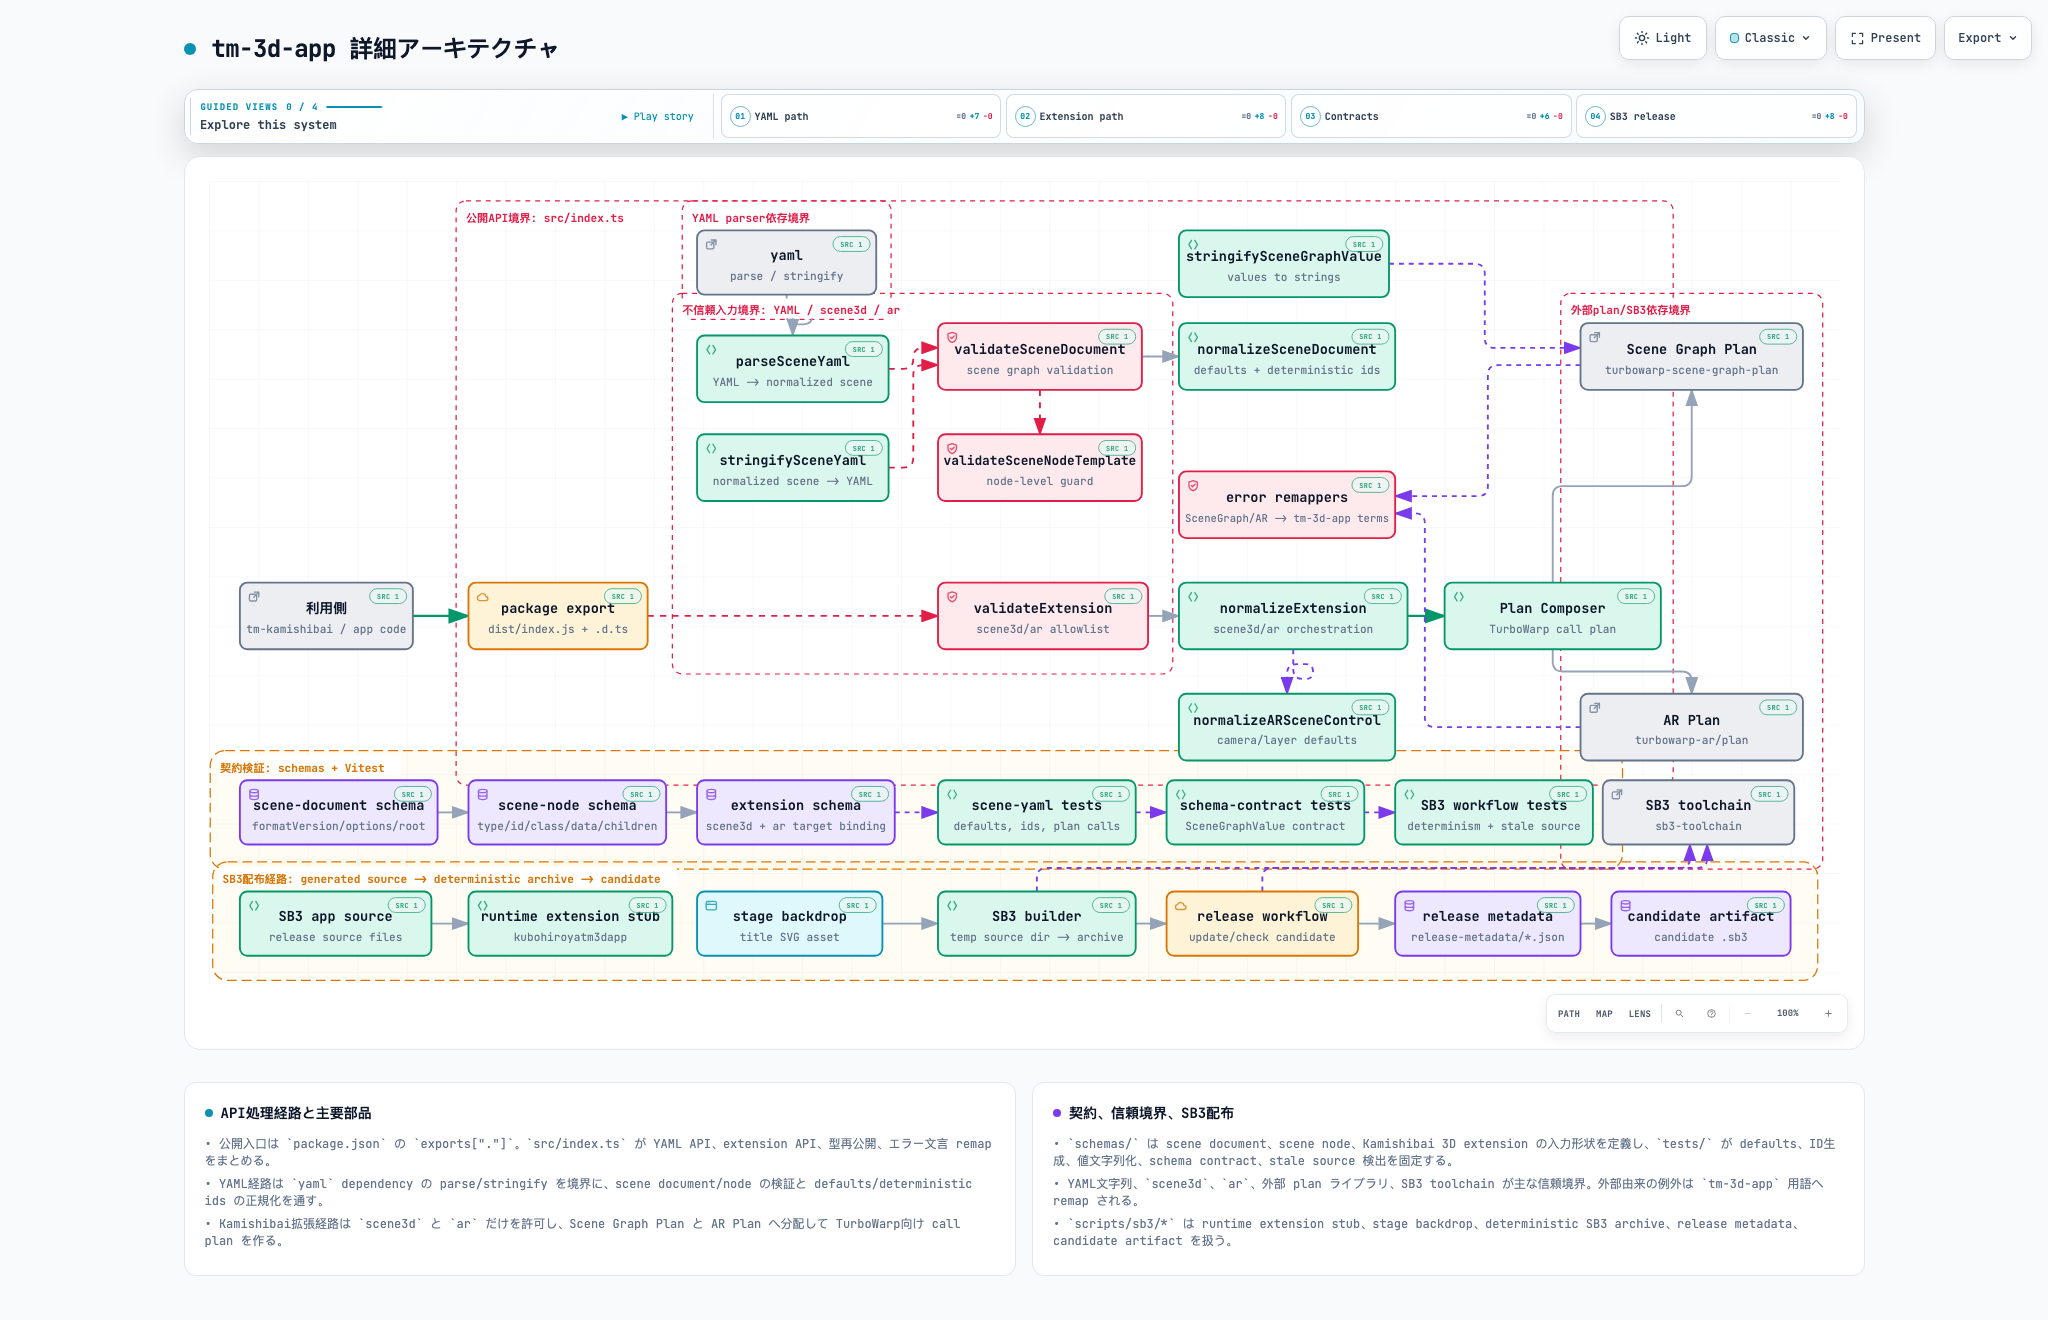
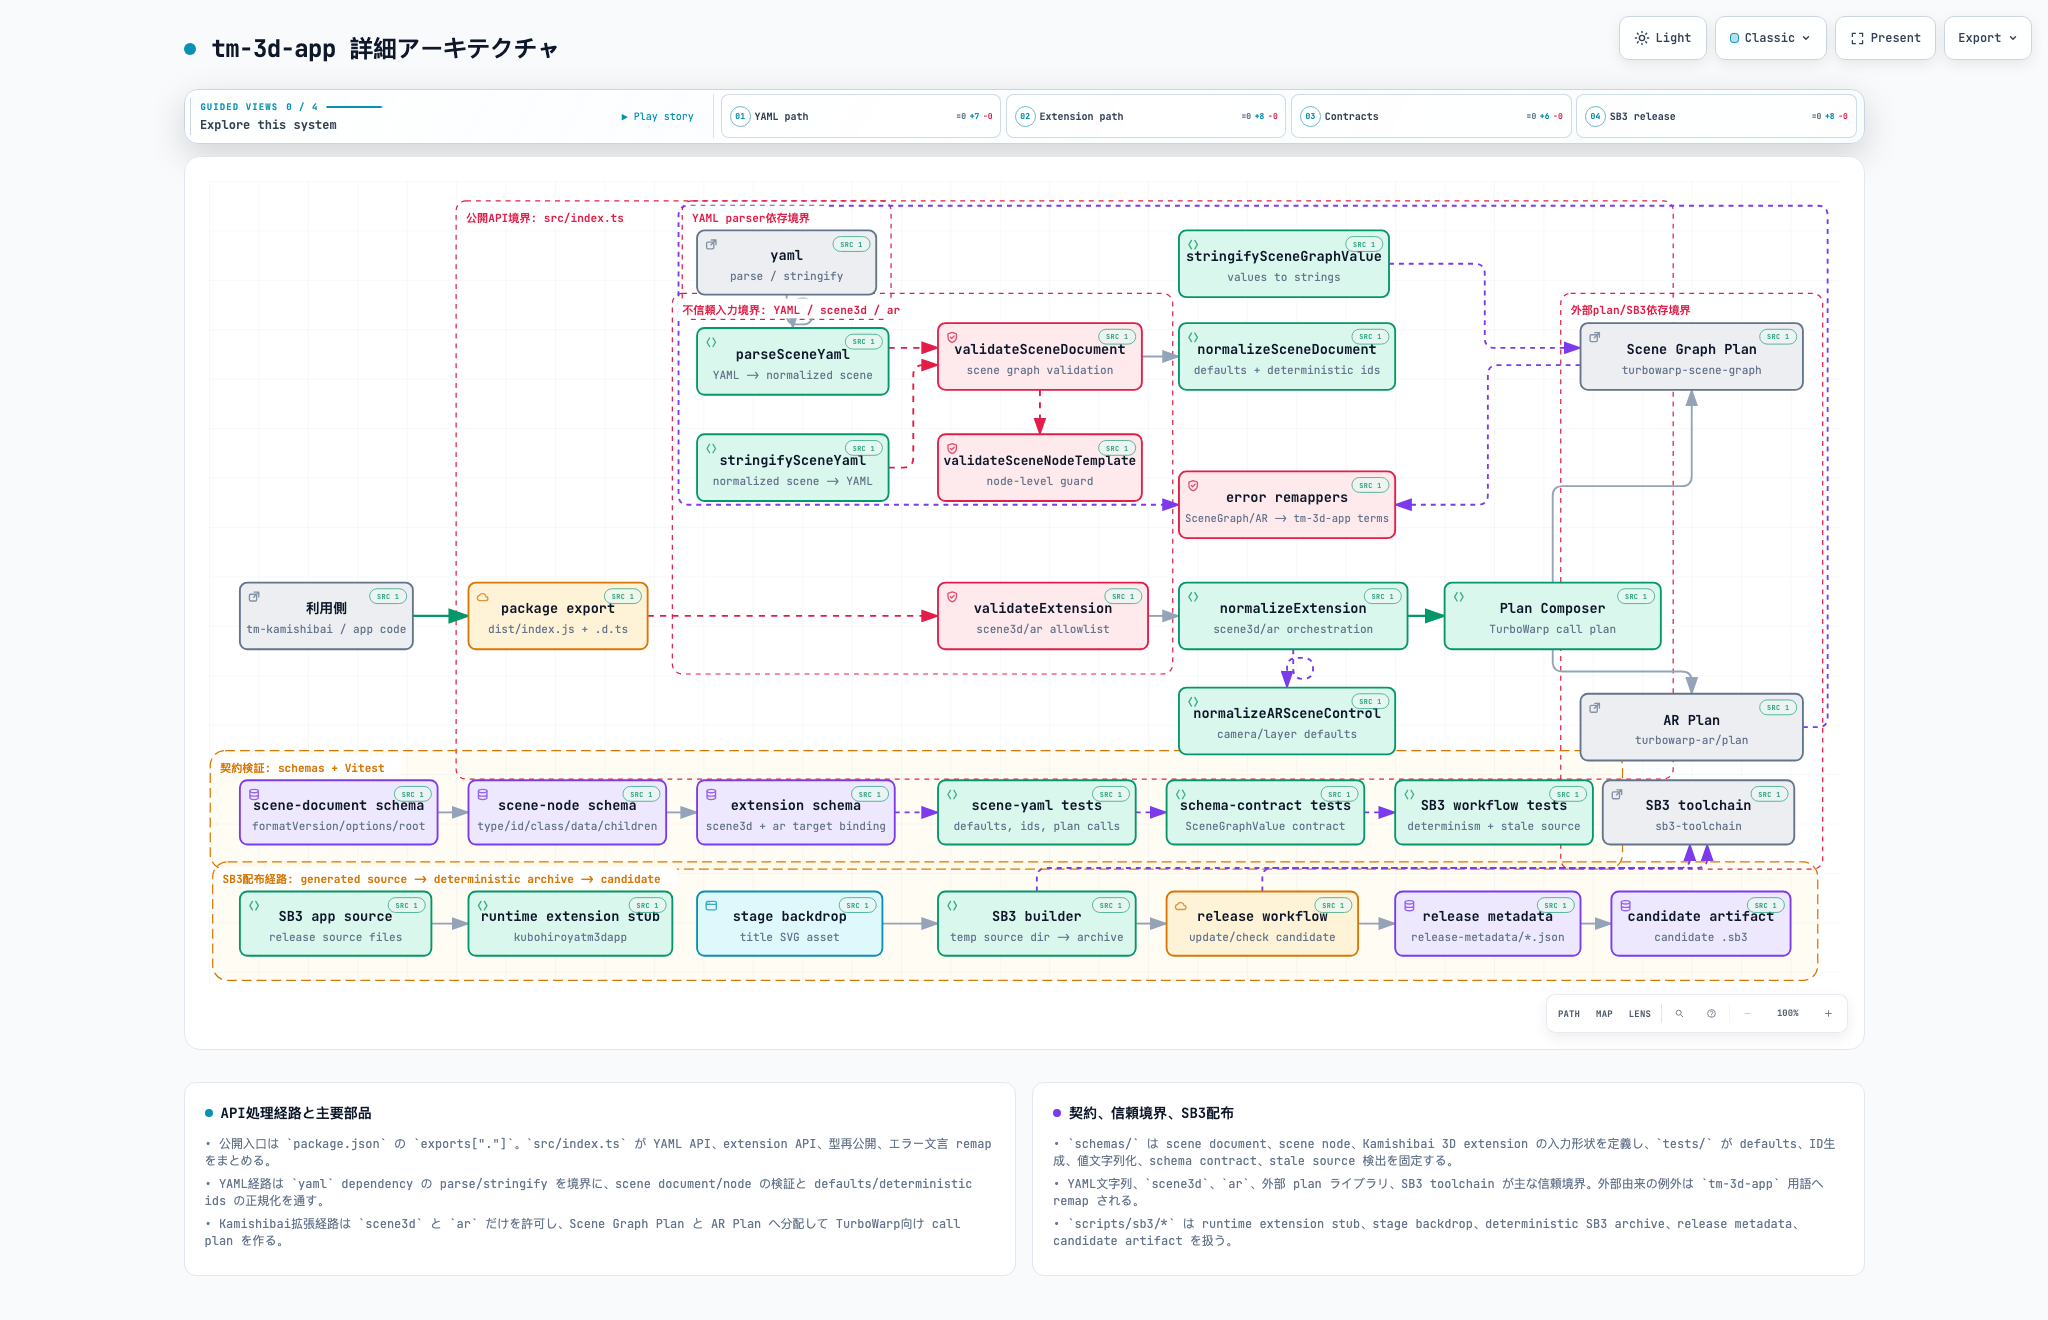
chore(scene-graph): migrate to renamed package (#10)

Changed region(s): [[0.5625, 0.497, 0.6875, 0.5902], [0.3438, 0.2485, 0.4375, 0.3106], [0.6875, 0.3727, 0.7188, 0.4038]]

diff --git a/docs/tm-3d-app-architecture.html b/docs/tm-3d-app-architecture.html
@@ -5004,7 +5004,7 @@
     <!-- Main Diagram -->
     <div class="diagram-container" data-detail-level="read"
          data-preset-badge-editorial-plate="ARCHIFY / PLATE 04">
-      <svg viewBox="0 0 1320 650" role="img" lang="en" aria-labelledby="archify-diagram-title archify-diagram-description" data-preset="classic" data-quality-profile="standard">
+      <svg viewBox="0 0 1320 650" role="img" lang="en" aria-labelledby="archify-diagram-title archify-diagram-description" data-preset="classic" data-quality-profile="showcase">
         <title id="archify-diagram-title">tm-3d-app 詳細アーキテクチャ</title>
         <desc id="archify-diagram-description">An architecture diagram generated by Archify.</desc>
         <!-- Definitions -->
@@ -5030,7 +5030,7 @@
         <rect width="100%" height="100%" fill="url(#grid)" />
 
         <!-- Boundaries (behind everything) -->
-        <rect data-graph-role="structural-frame" data-composition-frame-kind="security-group" data-composition-frame-id="0" data-composition-frame-label="公開API境界: src/index.ts" x="200" y="16" width="985" height="473" rx="8" class="c-security-group" stroke-width="1"/>
+        <rect data-graph-role="structural-frame" data-composition-frame-kind="security-group" data-composition-frame-id="0" data-composition-frame-label="公開API境界: src/index.ts" x="200" y="16" width="985" height="468" rx="8" class="c-security-group" stroke-width="1"/>
 
         <rect data-graph-role="structural-frame" data-composition-frame-kind="security-group" data-composition-frame-id="1" data-composition-frame-label="不信頼入力境界: YAML / scene3d / ar" x="375" y="91" width="405" height="308" rx="8" class="c-security-group" stroke-width="1"/>
 
@@ -5044,19 +5044,19 @@
 
         <!-- Connection paths (before components for correct z-order) -->
         <path data-edge-from="consumer" data-edge-to="packageExport" data-edge-key="0" data-edge-id="consumer-imports" data-composition-points="165,352;210,352" d="M 165 352 L 210 352" class="a-emphasis" stroke-width="1.8" marker-end="url(#arrowhead-emphasis)"/>
-        <path data-edge-from="yamlLibrary" data-edge-to="parseSceneYaml" data-edge-key="1" data-edge-id="yaml-to-parse" data-composition-points="467.5,92;467.5,116;488.5,116;488.5,101;472.5,101;472.5,125" d="M 467.5 92 L 467.5 108 Q 467.5 116 475.5 116 L 481 116 Q 488.5 116 488.5 108.5 L 488.5 108.5 Q 488.5 101 481 101 L 480.5 101 Q 472.5 101 472.5 109 L 472.5 125" class="a-default" stroke-width="1.5" marker-end="url(#arrowhead)"/>
-        <path data-edge-from="parseSceneYaml" data-edge-to="validateSceneDocument" data-edge-key="2" data-edge-id="parse-validates" data-composition-points="550,152;570,152;570,135;590,135" d="M 550 152 L 562 152 Q 570 152 570 144 L 570 143 Q 570 135 578 135 L 590 135" class="a-security" stroke-width="1.5" marker-end="url(#arrowhead-security)"/>
+        <path data-edge-from="yamlLibrary" data-edge-to="parseSceneYaml" data-edge-key="1" data-edge-id="yaml-to-parse" data-composition-points="467.5,92;467.5,116;488.5,116;488.5,95;472.5,95;472.5,119" d="M 467.5 92 L 467.5 108 Q 467.5 116 475.5 116 L 480.5 116 Q 488.5 116 488.5 108 L 488.5 103 Q 488.5 95 480.5 95 L 480.5 95 Q 472.5 95 472.5 103 L 472.5 119" class="a-default" stroke-width="1.5" marker-end="url(#arrowhead)"/>
+        <path data-edge-from="parseSceneYaml" data-edge-to="validateSceneDocument" data-edge-key="2" data-edge-id="parse-validates" data-composition-points="550,135;590,135" d="M 550 135 L 590 135" class="a-security" stroke-width="1.5" marker-end="url(#arrowhead-security)"/>
         <path data-edge-from="stringifySceneYaml" data-edge-to="validateSceneDocument" data-edge-key="3" data-edge-id="stringify-validates" data-composition-points="550,232;570,232;570,149;590,149" d="M 550 232 L 562 232 Q 570 232 570 224 L 570 157 Q 570 149 578 149 L 590 149" class="a-security" stroke-width="1.5" marker-end="url(#arrowhead-security)"/>
         <path data-edge-from="validateSceneDocument" data-edge-to="validateSceneNode" data-edge-key="4" data-edge-id="node-guard" data-composition-points="672.5,169;672.5,205" d="M 672.5 169 L 672.5 205" class="a-security" stroke-width="1.5" marker-end="url(#arrowhead-security)"/>
         <path data-edge-from="validateSceneDocument" data-edge-to="normalizeSceneDocument" data-edge-key="5" data-edge-id="scene-normalize" data-composition-points="755,142;785,142" d="M 755 142 L 785 142" class="a-default" stroke-width="1.5" marker-end="url(#arrowhead)"/>
         <path data-edge-from="packageExport" data-edge-to="validateExtension" data-edge-key="6" data-edge-id="extension-guard" data-composition-points="355,352;590,352" d="M 355 352 L 590 352" class="a-security" stroke-width="1.5" marker-end="url(#arrowhead-security)"/>
         <path data-edge-from="validateExtension" data-edge-to="normalizeExtension" data-edge-key="7" data-edge-id="extension-normalize" data-composition-points="760,352;785,352" d="M 760 352 L 785 352" class="a-default" stroke-width="1.5" marker-end="url(#arrowhead)"/>
-        <path data-edge-from="normalizeExtension" data-edge-to="normalizeARControl" data-edge-key="8" data-edge-id="extension-ar" data-composition-points="877.5,379;877.5,403;893.5,403;893.5,391;872.5,391;872.5,415" d="M 877.5 379 L 877.5 395 Q 877.5 403 885.5 403 L 887.5 403 Q 893.5 403 893.5 397 L 893.5 397 Q 893.5 391 887.5 391 L 880.5 391 Q 872.5 391 872.5 399 L 872.5 415" class="a-dashed" stroke-width="1.5" marker-end="url(#arrowhead-dashed)"/>
+        <path data-edge-from="normalizeExtension" data-edge-to="normalizeARControl" data-edge-key="8" data-edge-id="extension-ar" data-composition-points="877.5,379;877.5,403;893.5,403;893.5,386;872.5,386;872.5,410" d="M 877.5 379 L 877.5 395 Q 877.5 403 885.5 403 L 885.5 403 Q 893.5 403 893.5 395 L 893.5 394 Q 893.5 386 885.5 386 L 880.5 386 Q 872.5 386 872.5 394 L 872.5 410" class="a-dashed" stroke-width="1.5" marker-end="url(#arrowhead-dashed)"/>
         <path data-edge-from="normalizeExtension" data-edge-to="planComposer" data-edge-key="9" data-edge-id="normalize-plan" data-composition-points="970,352;1000,352" d="M 970 352 L 1000 352" class="a-emphasis" stroke-width="1.8" marker-end="url(#arrowhead-emphasis)"/>
         <path data-edge-from="planComposer" data-edge-to="sceneGraphPlanner" data-edge-key="10" data-edge-id="plan-scene" data-composition-points="1087.5,325;1087.5,247;1200,247;1200,169" d="M 1087.5 325 L 1087.5 255 Q 1087.5 247 1095.5 247 L 1192 247 Q 1200 247 1200 239 L 1200 169" class="a-default" stroke-width="1.5" marker-end="url(#arrowhead)"/>
         <path data-edge-from="planComposer" data-edge-to="arPlanner" data-edge-key="11" data-edge-id="plan-ar" data-composition-points="1087.5,379;1087.5,397;1200,397;1200,415" d="M 1087.5 379 L 1087.5 389 Q 1087.5 397 1095.5 397 L 1192 397 Q 1200 397 1200 405 L 1200 415" class="a-default" stroke-width="1.5" marker-end="url(#arrowhead)"/>
-        <path data-edge-from="sceneGraphPlanner" data-edge-to="errorRemapper" data-edge-key="12" data-edge-id="scene-errors" data-composition-points="1110,149;1035,149;1035,255;960,255" d="M 1110 149 L 1043 149 Q 1035 149 1035 157 L 1035 247 Q 1035 255 1027 255 L 960 255" class="a-dashed" stroke-width="1.5" marker-end="url(#arrowhead-dashed)"/>
-        <path data-edge-from="arPlanner" data-edge-to="errorRemapper" data-edge-key="13" data-edge-id="ar-errors" data-composition-points="1110,442;984,442;984,269;960,269" d="M 1110 442 L 992 442 Q 984 442 984 434 L 984 277 Q 984 269 976 269 L 960 269" class="a-dashed" stroke-width="1.5" marker-end="url(#arrowhead-dashed)"/>
+        <path data-edge-from="sceneGraphPlanner" data-edge-to="errorRemapper" data-edge-key="12" data-edge-id="scene-errors" data-composition-points="1110,149;1035,149;1035,262;960,262" d="M 1110 149 L 1043 149 Q 1035 149 1035 157 L 1035 254 Q 1035 262 1027 262 L 960 262" class="a-dashed" stroke-width="1.5" marker-end="url(#arrowhead-dashed)"/>
+        <path data-edge-from="arPlanner" data-edge-to="errorRemapper" data-edge-key="13" data-edge-id="ar-errors" data-composition-points="1290,442;1310,442;1310,20;380,20;380,262;785,262" d="M 1290 442 L 1302 442 Q 1310 442 1310 434 L 1310 28 Q 1310 20 1302 20 L 388 20 Q 380 20 380 28 L 380 254 Q 380 262 388 262 L 785 262" class="a-dashed" stroke-width="1.5" marker-end="url(#arrowhead-dashed)"/>
         <path data-edge-from="stringifyValue" data-edge-to="sceneGraphPlanner" data-edge-key="14" data-edge-id="value-to-scene" data-composition-points="955,67;1032.5,67;1032.5,135;1110,135" d="M 955 67 L 1024.5 67 Q 1032.5 67 1032.5 75 L 1032.5 127 Q 1032.5 135 1040.5 135 L 1110 135" class="a-dashed" stroke-width="1.5" marker-end="url(#arrowhead-dashed)"/>
         <path data-edge-from="sceneDocumentSchema" data-edge-to="sceneNodeSchema" data-edge-key="15" data-edge-id="doc-node-schema" data-composition-points="185,511;210,511" d="M 185 511 L 210 511" class="a-default" stroke-width="1.5" marker-end="url(#arrowhead)"/>
         <path data-edge-from="sceneNodeSchema" data-edge-to="extensionSchema" data-edge-key="16" data-edge-id="node-extension-schema" data-composition-points="370,511;395,511" d="M 370 511 L 395 511" class="a-default" stroke-width="1.5" marker-end="url(#arrowhead)"/>
@@ -5097,13 +5097,13 @@
 
         <g id="node-parseSceneYaml" data-node-id="parseSceneYaml" data-node-label="parseSceneYaml" tabindex="0" role="button" aria-label="Focus parseSceneYaml, YAML -&gt; normalized scene, 公開API境界: src/index.ts › 不信頼入力境界: YAML / scene3d / ar" aria-pressed="false" data-node-kind="backend" data-node-sublabel="YAML -&gt; normalized scene" data-node-context="公開API境界: src/index.ts › 不信頼入力境界: YAML / scene3d / ar">
           <title>parseSceneYaml · YAML -&gt; normalized scene · 公開API境界: src/index.ts › 不信頼入力境界: YAML / scene3d / ar</title>
-          <rect x="395" y="125" width="155" height="54" rx="6" class="c-mask"/>
-          <rect x="395" y="125" width="155" height="54" rx="6" class="c-backend" stroke-width="1.5"/>
-          <g aria-hidden="true" data-semantic-sigil="backend" class="semantic-sigil s-backend" transform="translate(401 131) scale(0.6875)">
+          <rect x="395" y="119" width="155" height="54" rx="6" class="c-mask"/>
+          <rect x="395" y="119" width="155" height="54" rx="6" class="c-backend" stroke-width="1.5"/>
+          <g aria-hidden="true" data-semantic-sigil="backend" class="semantic-sigil s-backend" transform="translate(401 125) scale(0.6875)">
             <path d="M6 3 3 8l3 5M10 3l3 5-3 5"/>
           </g>
-          <text data-node-label="" data-detail-anchor="" x="472.5" y="150" class="t-primary" font-size="11" font-weight="600" text-anchor="middle">parseSceneYaml</text>
-        <text data-detail="context" x="472.5" y="166" class="t-muted" font-size="9" text-anchor="middle">YAML -&gt; normalized scene</text>
+          <text data-node-label="" data-detail-anchor="" x="472.5" y="144" class="t-primary" font-size="11" font-weight="600" text-anchor="middle">parseSceneYaml</text>
+        <text data-detail="context" x="472.5" y="160" class="t-muted" font-size="9" text-anchor="middle">YAML -&gt; normalized scene</text>
         </g>
 
         <g id="node-stringifySceneYaml" data-node-id="stringifySceneYaml" data-node-label="stringifySceneYaml" tabindex="0" role="button" aria-label="Focus stringifySceneYaml, normalized scene -&gt; YAML, 公開API境界: src/index.ts" aria-pressed="false" data-node-kind="backend" data-node-sublabel="normalized scene -&gt; YAML" data-node-context="公開API境界: src/index.ts">
@@ -5201,14 +5201,14 @@
 
         <g id="node-normalizeARControl" data-node-id="normalizeARControl" data-node-label="normalizeARSceneControl" tabindex="0" role="button" aria-label="Focus normalizeARSceneControl, camera/layer defaults, 公開API境界: src/index.ts" aria-pressed="false" data-node-kind="backend" data-node-sublabel="camera/layer defaults" data-node-tag="external fn" data-node-context="公開API境界: src/index.ts">
           <title>normalizeARSceneControl · camera/layer defaults · 公開API境界: src/index.ts · external fn</title>
-          <rect x="785" y="415" width="175" height="54" rx="6" class="c-mask"/>
-          <rect x="785" y="415" width="175" height="54" rx="6" class="c-backend" stroke-width="1.5"/>
-          <g aria-hidden="true" data-semantic-sigil="backend" class="semantic-sigil s-backend" transform="translate(791 421) scale(0.6875)">
+          <rect x="785" y="410" width="175" height="54" rx="6" class="c-mask"/>
+          <rect x="785" y="410" width="175" height="54" rx="6" class="c-backend" stroke-width="1.5"/>
+          <g aria-hidden="true" data-semantic-sigil="backend" class="semantic-sigil s-backend" transform="translate(791 416) scale(0.6875)">
             <path d="M6 3 3 8l3 5M10 3l3 5-3 5"/>
           </g>
-          <text data-node-label="" data-detail-anchor="" x="872.5" y="440" class="t-primary" font-size="11" font-weight="600" text-anchor="middle">normalizeARSceneControl</text>
-        <text data-detail="context" x="872.5" y="456" class="t-muted" font-size="9" text-anchor="middle">camera/layer defaults</text>
-        <text data-detail="fine" x="872.5" y="461" class="t-backend" font-size="7" text-anchor="middle">external fn</text>
+          <text data-node-label="" data-detail-anchor="" x="872.5" y="435" class="t-primary" font-size="11" font-weight="600" text-anchor="middle">normalizeARSceneControl</text>
+        <text data-detail="context" x="872.5" y="451" class="t-muted" font-size="9" text-anchor="middle">camera/layer defaults</text>
+        <text data-detail="fine" x="872.5" y="456" class="t-backend" font-size="7" text-anchor="middle">external fn</text>
         </g>
 
         <g id="node-planComposer" data-node-id="planComposer" data-node-label="Plan Composer" tabindex="0" role="button" aria-label="Focus Plan Composer, TurboWarp call plan, 公開API境界: src/index.ts" aria-pressed="false" data-node-kind="backend" data-node-sublabel="TurboWarp call plan" data-node-context="公開API境界: src/index.ts">
@@ -5234,8 +5234,8 @@
         <text data-detail="context" x="872.5" y="276" class="t-muted" font-size="8.6" text-anchor="middle">SceneGraph/AR -&gt; tm-3d-app terms</text>
         </g>
 
-        <g id="node-sceneGraphPlanner" data-node-id="sceneGraphPlanner" data-node-label="Scene Graph Plan" tabindex="0" role="button" aria-label="Focus Scene Graph Plan, turbowarp-scene-graph-plan, 外部plan/SB3依存境界" aria-pressed="false" data-node-kind="external" data-node-sublabel="turbowarp-scene-graph-plan" data-node-tag="trust boundary" data-node-context="外部plan/SB3依存境界">
-          <title>Scene Graph Plan · turbowarp-scene-graph-plan · 外部plan/SB3依存境界 · trust boundary</title>
+        <g id="node-sceneGraphPlanner" data-node-id="sceneGraphPlanner" data-node-label="Scene Graph Plan" tabindex="0" role="button" aria-label="Focus Scene Graph Plan, turbowarp-scene-graph, 外部plan/SB3依存境界" aria-pressed="false" data-node-kind="external" data-node-sublabel="turbowarp-scene-graph" data-node-tag="trust boundary" data-node-context="外部plan/SB3依存境界">
+          <title>Scene Graph Plan · turbowarp-scene-graph · 外部plan/SB3依存境界 · trust boundary</title>
           <rect x="1110" y="115" width="180" height="54" rx="6" class="c-mask"/>
           <rect x="1110" y="115" width="180" height="54" rx="6" class="c-external" stroke-width="1.5"/>
           <g aria-hidden="true" data-semantic-sigil="external" class="semantic-sigil s-external" transform="translate(1116 121) scale(0.6875)">
@@ -5243,7 +5243,7 @@
             <path d="M8 2.5h5.5V8M13.5 2.5 7.5 8.5"/>
           </g>
           <text data-node-label="" data-detail-anchor="" x="1200" y="140" class="t-primary" font-size="11" font-weight="600" text-anchor="middle">Scene Graph Plan</text>
-        <text data-detail="context" x="1200" y="156" class="t-muted" font-size="9" text-anchor="middle">turbowarp-scene-graph-plan</text>
+        <text data-detail="context" x="1200" y="156" class="t-muted" font-size="9" text-anchor="middle">turbowarp-scene-graph</text>
         <text data-detail="fine" x="1200" y="161" class="t-external" font-size="7" text-anchor="middle">trust boundary</text>
         </g>
 

diff --git a/src/index.ts b/src/index.ts
@@ -11,7 +11,7 @@ import {
   type SceneGraphOptions,
   type SceneGraphScalar,
   type SceneGraphValue
-} from '@kubohiroya/turbowarp-scene-graph-plan';
+} from '@kubohiroya/turbowarp-scene-graph';
 import {
   createTurboWarpARScenePlan,
   normalizeARSceneControl,
